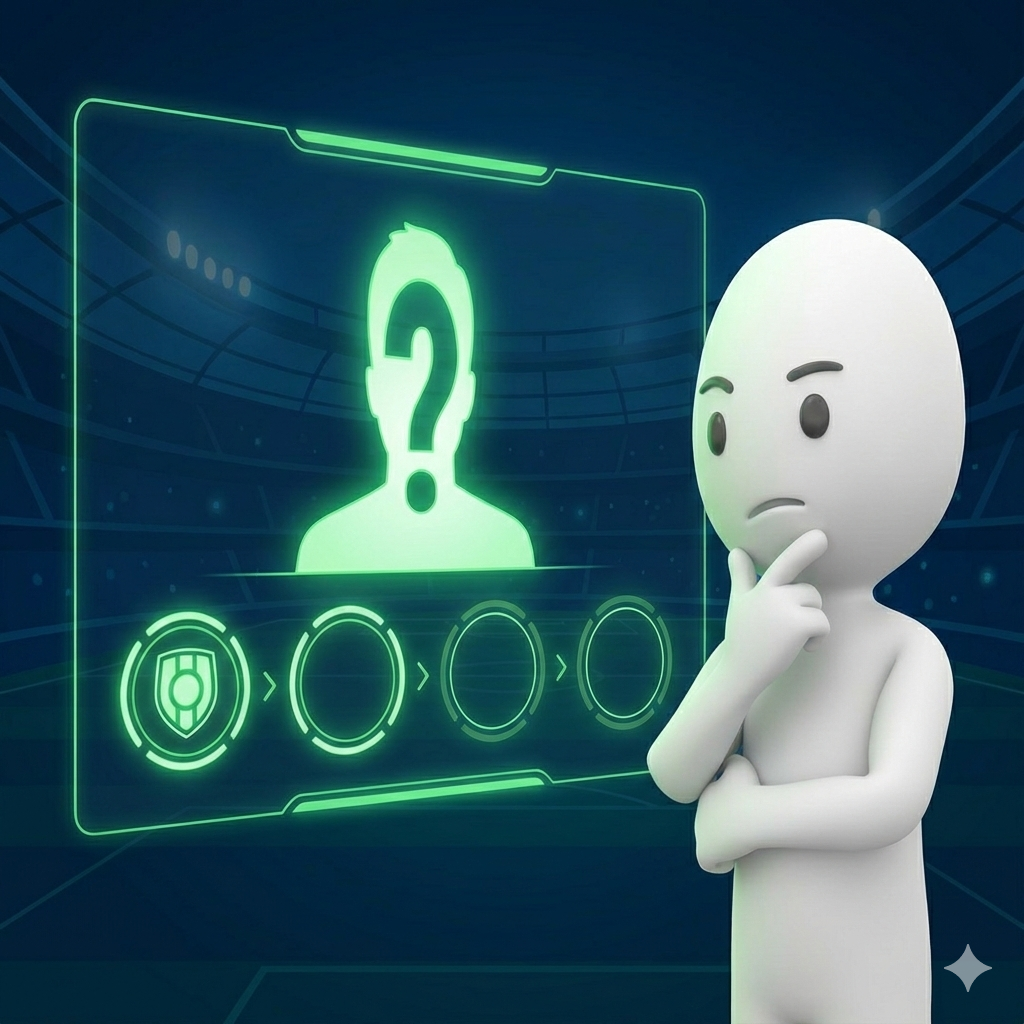
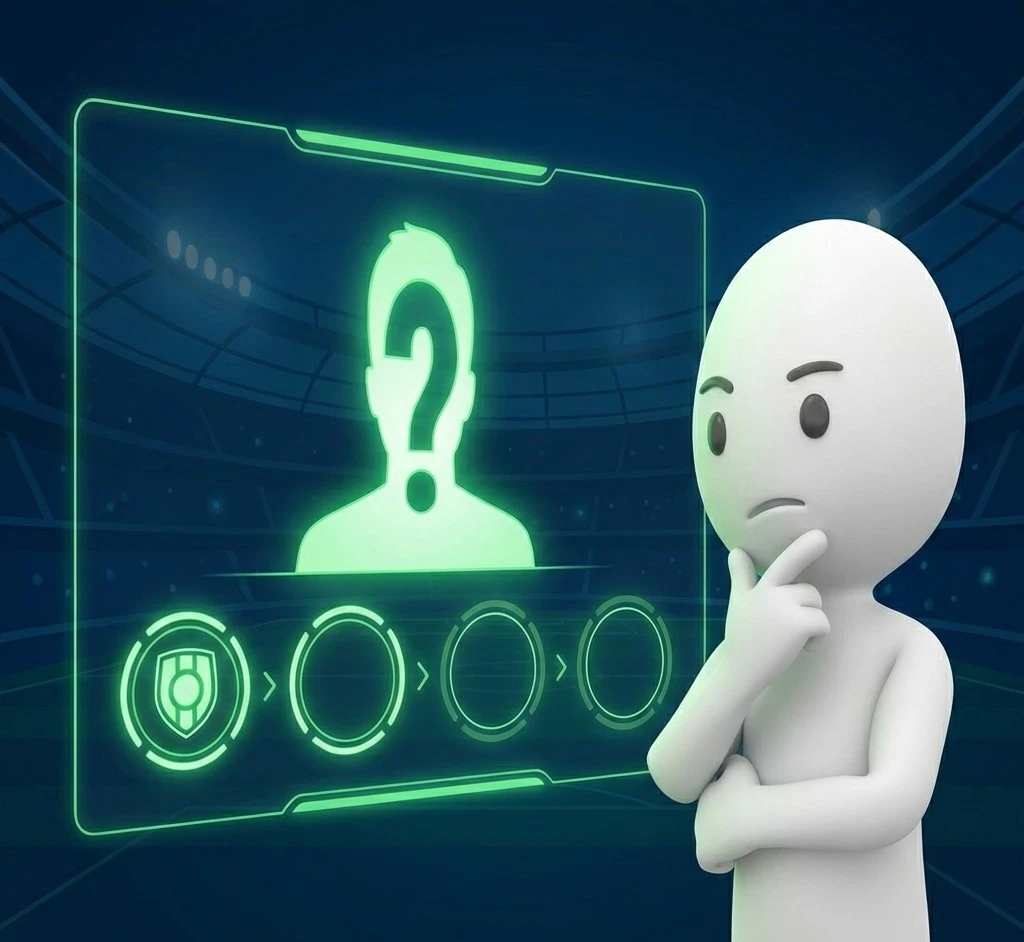
descripciones a los juegos en la home. Fotos de juegos de la home ajustadas

diff --git a/resources/js/views/public/home/index.vue b/resources/js/views/public/home/index.vue
@@ -25,12 +25,18 @@
                 <div class="juego-container">
                     <img src="/images/Match9.webp" alt="Imagen del juego" class="juego-imagen" />
                     <h3 class="juego-titulo">Match 9</h3>
+                    <p class="juego-descripcion">
+                        Juego de lógica futbolística en formato 3x3 donde deberás completar un tablero rellenando cada casilla con un jugador que cumpla simultáneamente los requisitos de su fila y su columna (nacionalidad y club en el que haya jugado). Cada combinación siempre tiene al menos un jugador válido, pero no podrás repetir jugadores dentro del mismo tablero...
+                    </p>
                 </div>
             </router-link>
             <router-link  to="/juegos/path4">
                 <div class="juego-container">
                     <img src="/images/Path4.webp" alt="Imagen del juego" class="juego-imagen" />
                     <h3 class="juego-titulo">Path 4</h3>
+                    <p class="juego-descripcion">
+                        Encuentra la ruta correcta entre jugadores conectándolos a través de clubes en el menor número de pasos posible. Cada jugador te llevará a nuevas opciones, pero tendrás que elegir bien el camino para llegar al objetivo...
+                    </p>
                 </div>
             </router-link>
         </div>
@@ -155,9 +161,9 @@ h2 {
     align-items: center;
     background-color: #d8e6f4;
     padding: 40px;
-    padding-bottom: 0px;
     border-radius: 12px;
-    transition: transform 0.2s ease, box-shadow 0.2s ease
+    transition: transform 0.2s ease, box-shadow 0.2s ease;
+    max-width: 480px;
 }
 
 .juego-container:hover {
@@ -168,6 +174,8 @@ h2 {
 .juego-imagen {
     width: 400px;
     height: 400px;
+    object-fit: cover;
+    object-position: center;
     border-radius: 8px;
     box-shadow: 0px 4px 15px 4px rgba(0,0,0,0.23)
 ;
@@ -179,6 +187,19 @@ h2 {
     font-size: 34px;
     font-weight: 600;
     color: #00203E;
+}
+
+.juego-descripcion {
+    font-size: 16px;
+    color: #2a4761;
+    text-align: center;
+    line-height: 1.3;
+
+    display: -webkit-box;
+    line-clamp: 3;
+    -webkit-line-clamp: 3;
+    -webkit-box-orient: vertical;
+    overflow: hidden;
 }
 
 .btn-ver-juegos {
